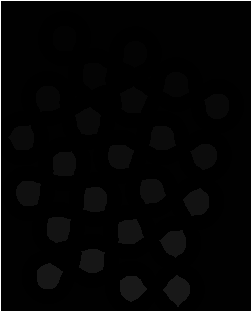
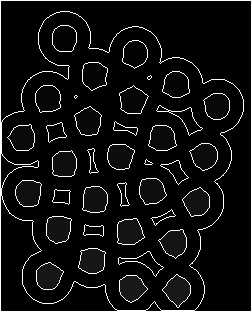
implemented queue

diff --git a/watershed/src/main.rs b/watershed/src/main.rs
@@ -1,6 +1,6 @@
 use std::collections::BinaryHeap;
 use std::cmp::Ordering;
-use image::{DynamicImage, GrayImage, ImageBuffer, Luma, open};
+use image::{DynamicImage, GrayImage, ImageBuffer, Luma, Rgb, open};
 use imageproc::{
     contrast::{ThresholdType, otsu_level, threshold},
     distance_transform::{Norm, distance_transform},
@@ -10,8 +10,8 @@ use imageproc::{
 
 #[derive(Copy, Clone, Eq, PartialEq, Debug)]
 struct State {
-    cost: usize,
-    position: usize,
+    cost: u8,
+    position: (u32,u32),
 }
 
 // The priority queue depends on `Ord`.
@@ -83,7 +83,9 @@ fn main() {
     );
 
     let connected_unknown = diff_zero(&connected, &unknown);
-    let _ = connected_unknown.save("connected_unknown.png");
+    let _ = connected_unknown.save("connected_unknown.png"); // this is the mask to be feed into the watershed
+    
+    // println!("{:?}", connected_unknown.get_pixel(0, 0));
 
     let answer = watershed(img, connected_unknown);
 
@@ -140,22 +142,30 @@ const IN_QUEUE: i32 = -2;
 const WSHED: i32 = -1;
 const NQ: i32 = 256;
 
+
+/**
+ * The background is a group(1) the unknown is a blur around the part we are fighting over
+ * anything that is 0 is considered unknown
+ * we use the diff in the actual image contrast to determine what group it goes to
+ * 
+ */
 fn watershed(_src: DynamicImage, markers: ImageBuffer<Luma<u8>, Vec<u8>>) -> GrayImage {
 
     let mut priority_queue: BinaryHeap<State> = BinaryHeap::new();
     // priority_queue.push(State { cost: 0, position: 0 });
 
     let mut copy = markers.clone();
-    let size = (_src.width(), _src.height());
+    let img = _src.to_rgb8();
+    // let size = (_src.width(), _src.height());
 
-    let mut storage: Vec<WSNode> = Vec::new();
-    let free_node = 0;
-    let node = 0;
-    let mut queue: Vec<WSNode> = Vec::new();
+    // let mut storage: Vec<WSNode> = Vec::new();
+    // let free_node = 0;
+    // let node = 0;
+    // let mut queue: Vec<WSNode> = Vec::new();
 
-    let mut db: i32;
-    let mut dg: i32;
-    let mut dr: i32;
+    // let mut db: i32;
+    // let mut dg: i32;
+    // let mut dr: i32;
 
     let mut subs_tab: [i32; 512] = [0; 512];
 
@@ -166,7 +176,9 @@ fn watershed(_src: DynamicImage, markers: ImageBuffer<Luma<u8>, Vec<u8>>) -> Gra
         subs_tab[i] = (i - 256).try_into().unwrap();
     }
 
-    println!("{}", subs_tab.len());
+    
+
+    // println!("{}", subs_tab.len());
 
     // width perimeter
     for i in 0..copy.width() {
@@ -180,19 +192,90 @@ fn watershed(_src: DynamicImage, markers: ImageBuffer<Luma<u8>, Vec<u8>>) -> Gra
         copy.put_pixel(copy.width()-1, i, Luma([255]));
     }
 
+    // initial phase: put all the neighbor pixels of each marker to the ordered queue -
+    // determine the initial boundaries of the basins
+    for i in 1..copy.height()-1 {
+        for j in 1..copy.width()-1 {
+
+            if copy.get_pixel(j, i).0[0] < (0 as u8) {
+                copy.put_pixel(j, i,Luma([0]));
+            }
+
+            // checks surrounding pixels to see if around a group
+            if  copy.get_pixel(j, i).0[0] == 0 && 
+                (copy.get_pixel(j, i+1).0[0] > 0 || 
+                copy.get_pixel(j, i-1).0[0] > 0 || 
+                copy.get_pixel(j+1, i).0[0] > 0 || 
+                copy.get_pixel(j-1, i).0[0] > 0) 
+            {
+                let mut priority: u8 = 255;
+                let mut holder:u8 = 255;
+
+                if copy.get_pixel(j, i+1).0[0] > 0 {
+                    holder = pixel_diff(img.get_pixel(j, i+1).clone(), img.get_pixel(j, i).clone());
+                    priority = std::cmp::min(holder, priority);
+                }
+                if copy.get_pixel(j, i-1).0[0] > 0 {
+
+                    holder = pixel_diff(img.get_pixel(j, i-1).clone(), img.get_pixel(j, i).clone());
+                    priority = std::cmp::min(holder, priority);
+                    
+                }
+                if copy.get_pixel(j+1, i).0[0] > 0 {
+
+                    holder = pixel_diff(img.get_pixel(j+1, i).clone(), img.get_pixel(j, i).clone());
+                    priority = std::cmp::min(holder, priority);
+                    
+                }
+                if copy.get_pixel(j-1, i).0[0] > 0 {
+
+                    holder = pixel_diff(img.get_pixel(j-1, i).clone(), img.get_pixel(j, i).clone());
+                    priority = std::cmp::min(holder, priority);
+                    
+                }
+                // add to queue
+                priority_queue.push(State {cost: priority, position: (j,i)});
+                // copy.put_pixel(j, i, Luma([255]));
+                // need to designate pixel in queue
+                
+
+            }
+
+        }
+        // next step
+
+    }
+    // next step
+    println!("{}", priority_queue.len());
+
+    priority_queue.iter().for_each(|x| copy.put_pixel(x.position.0, x.position.1, Luma([255])));
+
+    // setting
+
 
 
     copy
 }
 
-fn ws_max(a: i32, b: i32, subs_tab: [i32; 512]) -> i32 {
-    let index: usize = ((a) - (b) + NQ).try_into().unwrap();
-    b + subs_tab[index]
-}
+// fn ws_max(a: i32, b: i32, subs_tab: [i32; 512]) -> i32 {
+//     let index: usize = ((a) - (b) + NQ).try_into().unwrap();
+//     b + subs_tab[index]
+// }
 
-fn ws_min(a: i32, b: i32, subs_tab: [i32; 512]) -> i32 {
-    let index: usize = ((a) - (b) + NQ).try_into().unwrap();
-    a - subs_tab[index]
+// fn ws_min(a: i32, b: i32, subs_tab: [i32; 512]) -> i32 {
+//     let index: usize = ((a) - (b) + NQ).try_into().unwrap();
+//     a - subs_tab[index]
+// }
+
+fn pixel_diff(a: Rgb<u8>, b: Rgb<u8>) -> u8{
+    let db = a.0[0].abs_diff(b.0[0]);
+    let dg = a.0[1].abs_diff(b.0[1]);
+    let dr = a.0[2].abs_diff(b.0[2]);
+    let diff = std::cmp::max(db, dg);
+    
+    std::cmp::max(diff, dr)
+
+
 }
 
 // let mut rgb_image = ImageBuffer::new(connected.width(), connected.height());
